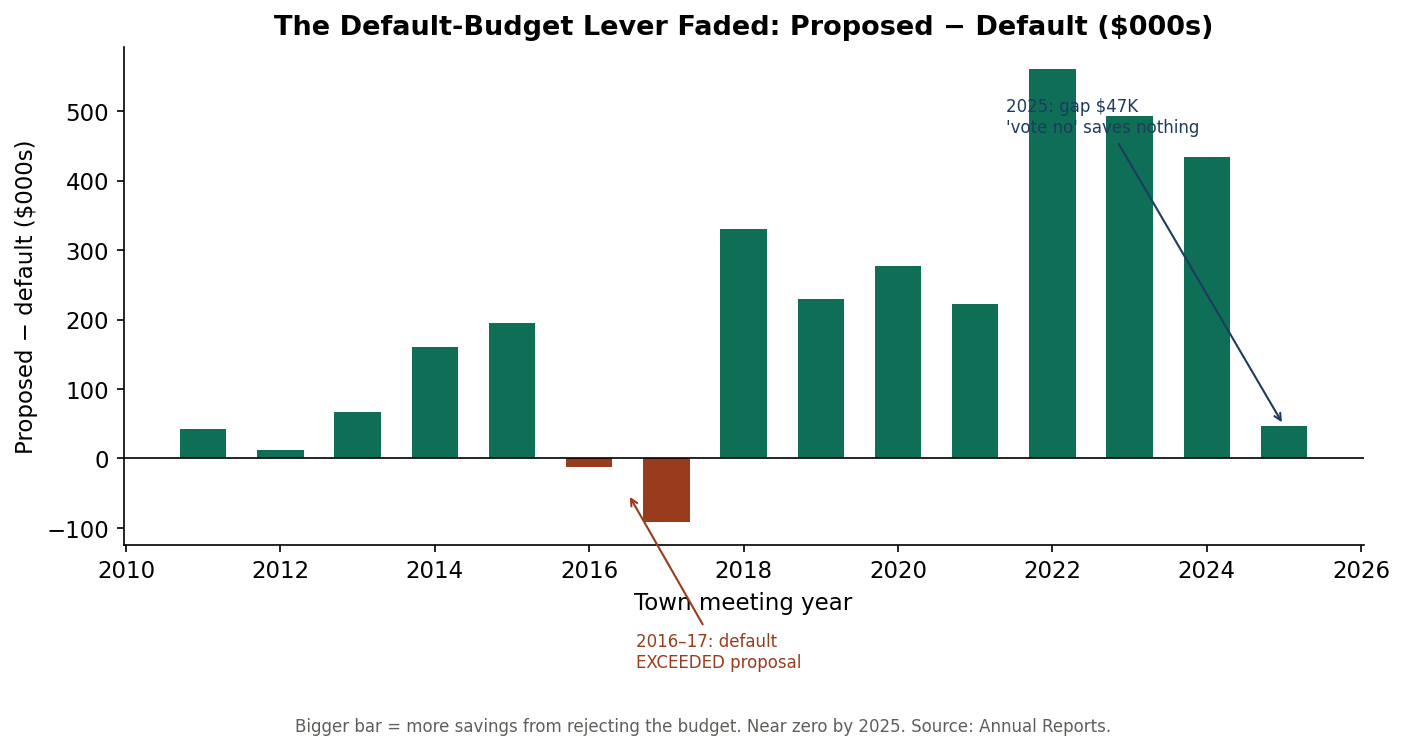
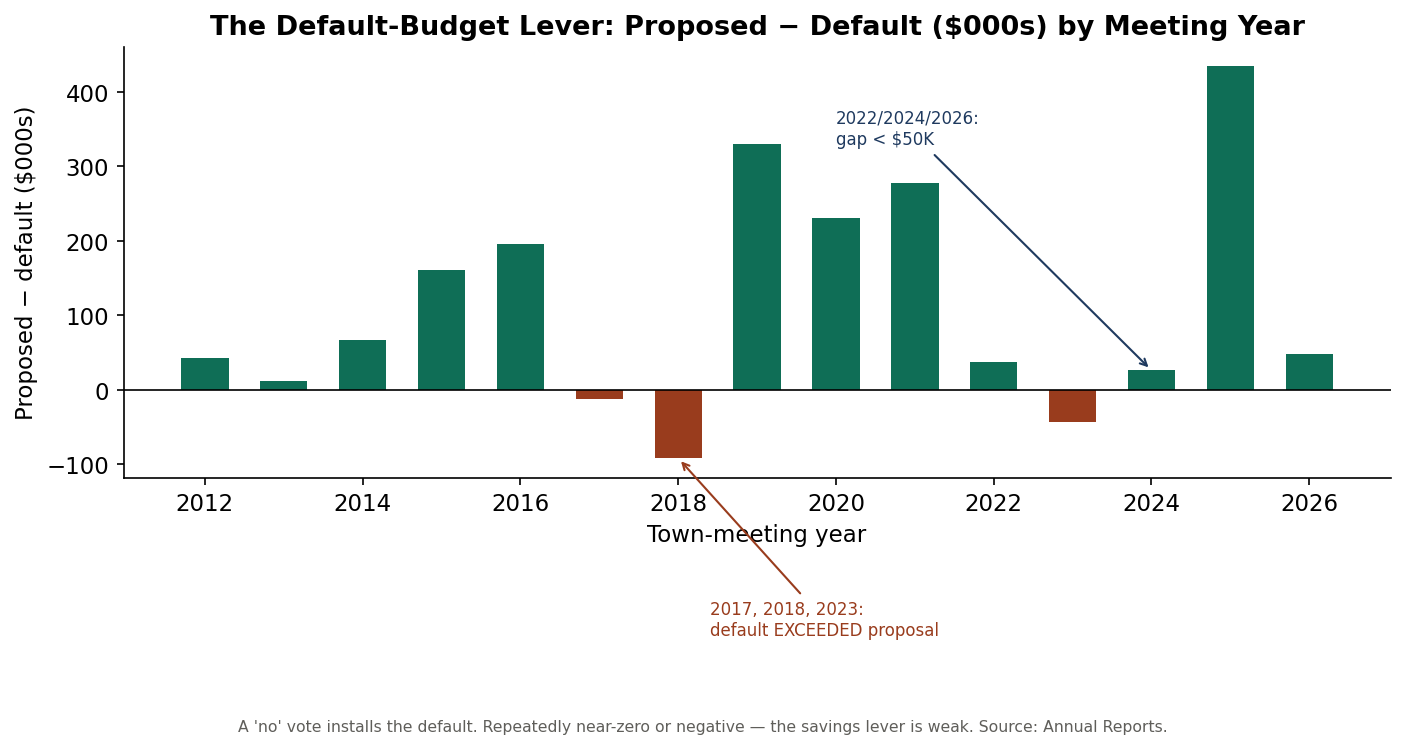
Correct off-by-one in budget series; close 2017/2019/2021/2022 tallies
Data-integrity fix found during deep review: the original budget series
was keyed to the report year and used the warrant (proposed) figure,
which sits one year ahead of the as-voted result — so budgets were
mislabeled by a year and paired with the wrong meeting's vote. Verified
the +1 mapping against as-voted results for 2020, 2023, and 2025
(operating + default both match).

- Canonical dataset rebuilt keyed to town-meeting year (2012-2026);
  recovered operating-budget vote margins for 2017/2019/2021/2022
  (now 13 of 15 years; 2018/2020 not machine-readable).
- Regenerated charts 01/02/04, the 8-tab model (Budget Model + Forecast
  re-based to 2026; fixed two mis-paired Ballot Record op-budget rows),
  all four DOCX briefs, Final Report.pdf, Public Handout.pdf, and the
  14-slide deck.
- Finding 2 now reflects the richer truth: default exceeded the proposal
  in 2017/2018/2023 and came within ~$50K in 2022/2024/2026.
- Fixed swanzey-voting-vault/budget-series.csv and flagged the WORKBOOK
  prose; pointed to the Office package as canonical.

Trend and magnitudes unchanged; only year labels shifted (+1).

https://claude.ai/code/session_01QjR1e91vo6hzvZdpnVX6Mh

diff --git a/docs/analyses/swanzey-voting-vault/README.md b/docs/analyses/swanzey-voting-vault/README.md
@@ -1,3 +1,10 @@
+> **Correction note (data integrity).** A later review found the original budget series was keyed to
+> the *report* year and used the *warrant (proposed)* figure, which sits one year ahead of the
+> as-voted result. `budget-series.csv` has been corrected to **town-meeting year** (verified against
+> as-voted results for 2020/2023/2025). Some prose in `WORKBOOK.md` below still uses the old labels;
+> the **canonical, corrected analysis lives in `../swanzey-financial-review/`** (the Office package).
+> The trend and magnitudes are unchanged; only year labels shifted (+1).
+
 # Swanzey Voting VAULT — 11 Years of Ballots, Elections, Patterns & Forecast
 
 A VAULT workbook built from the **real record**: every Town of Swanzey official-ballot town meeting and